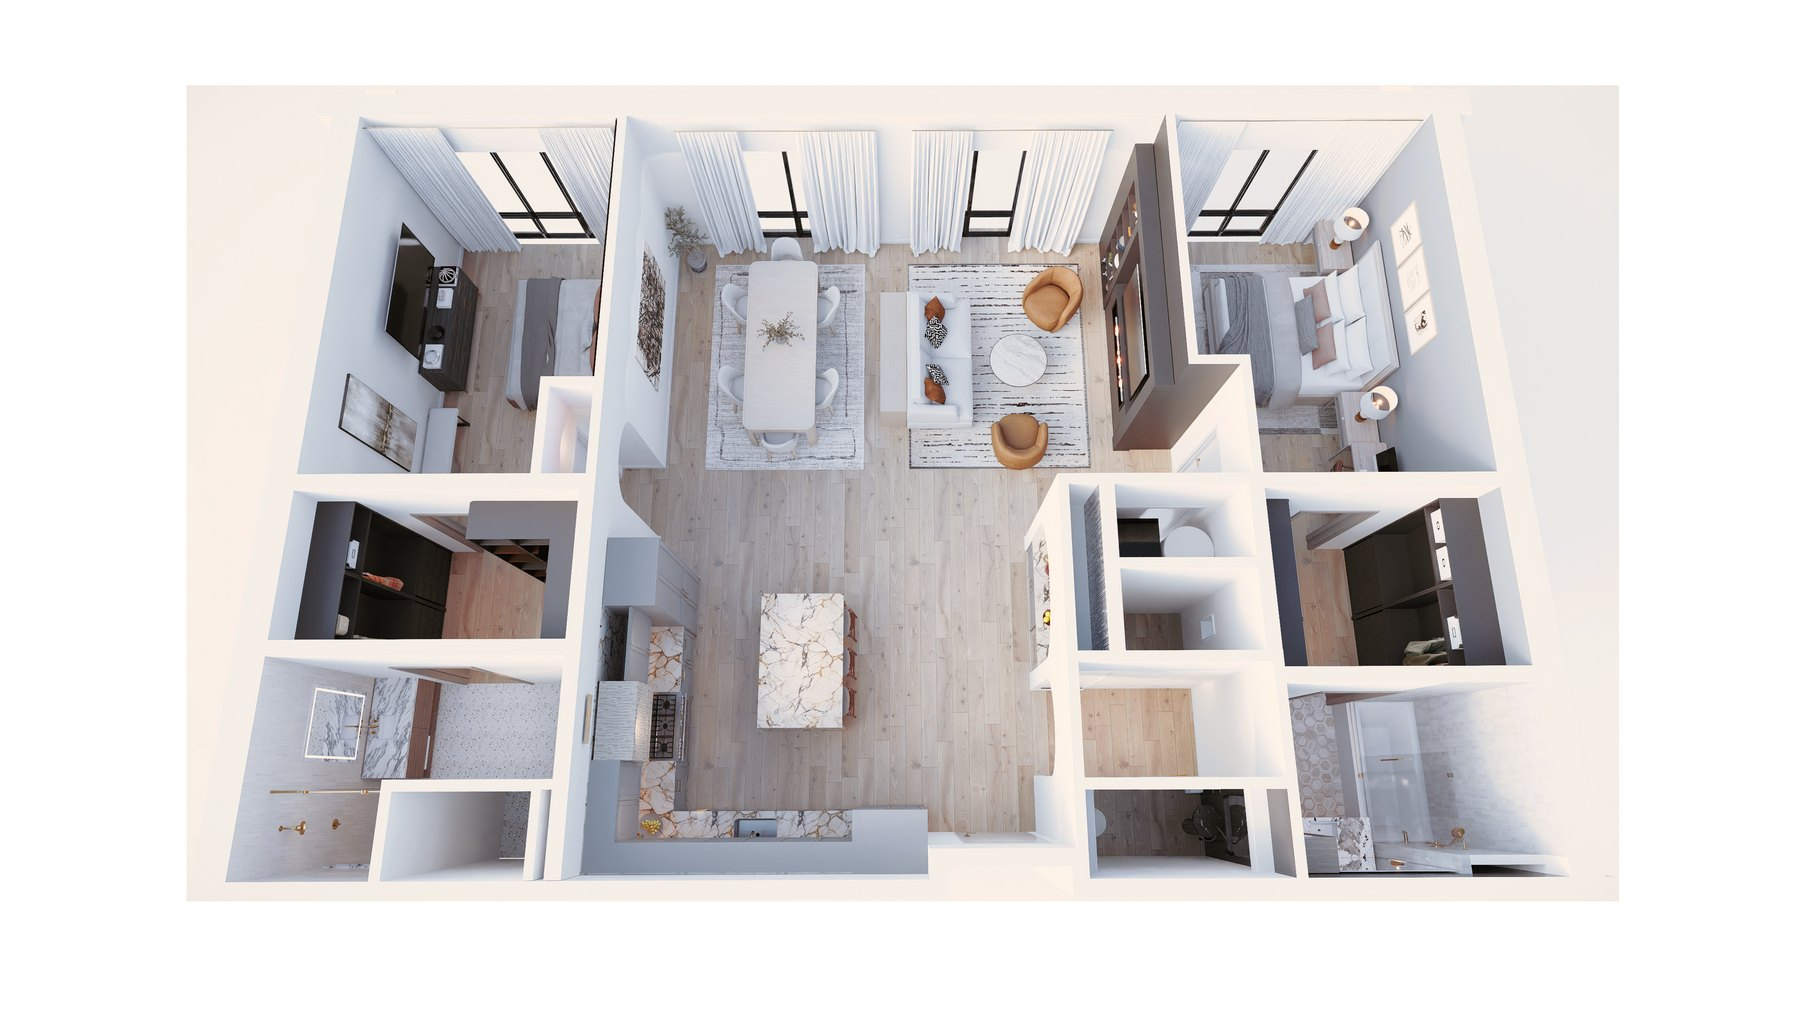
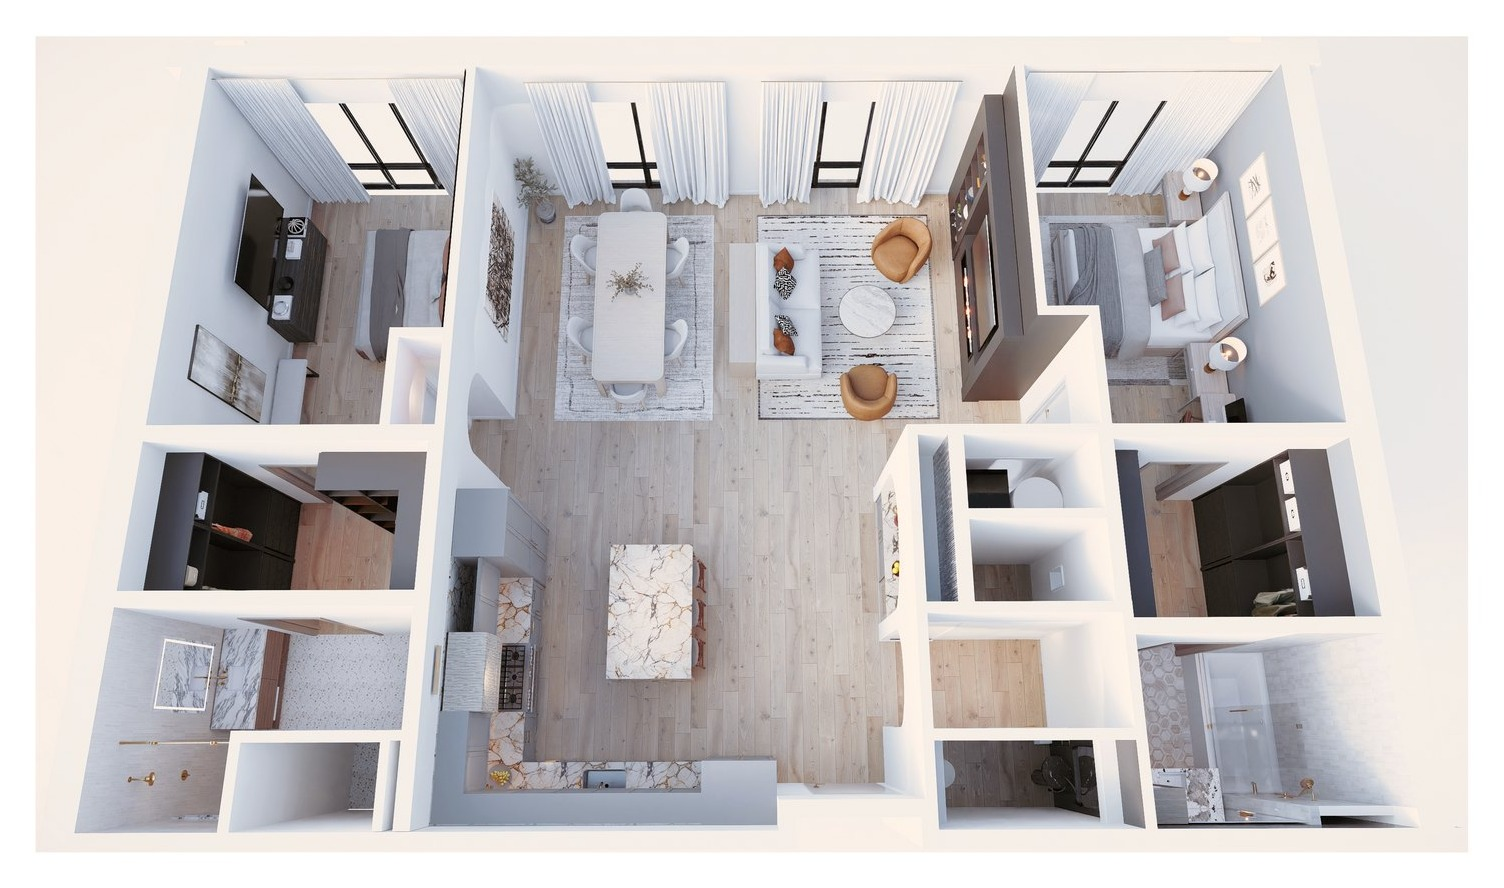
Declare a dark color scheme, restore pinch-zoom, tighten floor plan (#29)
Three pre-existing defects, reported as the residences page "blinking
white".

The document never declared a color scheme. Only `body` carried a
background; `html` was transparent and `color-scheme` computed to
`normal`, so the browser rendered its light-mode furniture over a dark
page: pale scrollbars that fade in and out as you scroll, white
overscroll at the top and bottom, white before the stylesheet paints,
and light native <select> popups on the interest forms. Setting
`color-scheme: dark` on :root and painting `html` fixes all of those.
`themeColor` and `colorScheme` on the viewport export carry it into
mobile browser chrome.

Dropped `maximumScale: 1` from the viewport. Capping zoom at 1 blocks
pinch-to-zoom, which fails WCAG 2.1 SC 1.4.4 (Resize Text).

The floor plan render sits on a pure-white background, so its panel has
to be white for the image to sit flush — but only 64% of the asset was
drawing and the rest was empty white margin, making a large white slab
mid-page. Cropped the asset to the drawing (1800x1012 -> 1504x888, 73%
of the original area), tightened the panel padding, and added a copper
ring so it frames the drawing rather than reading as a hole in the page.
The original is in git history if the uncropped version is ever needed.

The complete fix for that last one is a dark-background version of the
render from S33; this is as far as it goes without a new asset.

Claude-Session: https://claude.ai/code/session_01AmPGhZHcbGERu2W6JBQEmf

diff --git a/app/spaces/residences/page.tsx b/app/spaces/residences/page.tsx
@@ -129,12 +129,17 @@ export default function ResidencesPage() {
                   <span className="text-2xl">→</span>
                 </Link>
               </div>
-              <div className="lg:col-span-3 bg-white rounded-2xl p-4 md:p-6 shadow-2xl">
+              {/* The render has a pure-white background, so the panel has to be
+                  white for it to sit flush. The asset is cropped to the drawing
+                  to keep that white area as small as possible, and the copper
+                  edge frames it rather than letting it read as a hole in the
+                  page. */}
+              <div className="lg:col-span-3 bg-white rounded-2xl p-3 md:p-4 shadow-2xl ring-1 ring-station-gold/30">
                 <Image
                   src="/images/residences/floor-plan-2br.jpg"
                   alt="Station33 two-bedroom, two-bath condo floor plan, aerial dollhouse view"
-                  width={1800}
-                  height={1012}
+                  width={1504}
+                  height={888}
                   className="w-full h-auto rounded-lg"
                 />
               </div>

diff --git a/app/globals.css b/app/globals.css
@@ -3,6 +3,12 @@
 @tailwind utilities;
 
 :root {
+  /* Tell the browser this is a dark document. Without it the UA renders its
+     light-mode furniture over the page: pale scrollbars that fade in and out
+     as you scroll, white overscroll at the top and bottom, white before the
+     stylesheet paints, and light native <select> popups. */
+  color-scheme: dark;
+
   /* ========================================
      Station33 Brand Colors (Brand Kit v2.0)
      ======================================== */
@@ -60,6 +66,12 @@
 @layer base {
   * {
     @apply border-divider-gray;
+  }
+
+  /* The canvas behind <body> — what shows through on overscroll and during
+     the first paint. body's own background does not reliably cover it. */
+  html {
+    @apply bg-bg-dark;
   }
 
   body {

diff --git a/app/layout.tsx b/app/layout.tsx
@@ -55,7 +55,12 @@ export const metadata: Metadata = {
 export const viewport: Viewport = {
   width: 'device-width',
   initialScale: 1,
-  maximumScale: 1,
+  // Matches --bg-dark so mobile browser chrome and the pre-paint canvas are
+  // dark rather than white.
+  themeColor: '#2b2f33',
+  colorScheme: 'dark',
+  // No maximumScale: capping zoom at 1 blocks pinch-to-zoom, which fails
+  // WCAG 2.1 SC 1.4.4 (Resize Text).
 }
 
 const postalAddress = {
